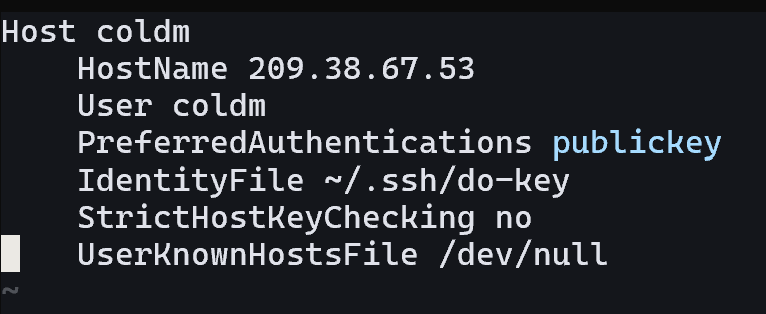
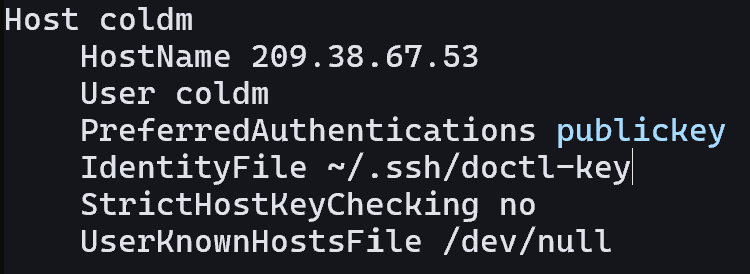
small fix

diff --git a/README.md b/README.md
@@ -272,7 +272,7 @@ Host <name>
     HostName <droplet Public IPv4 Address>
     User <username in your cloud-init file>
     PreferredAuthentications publickey
-    IdentityFile ~/.ssh/do-key
+    IdentityFile ~/.ssh/doctl-key
     StrictHostKeyChecking no
     UserKnownHostsFile /dev/null
 ```
